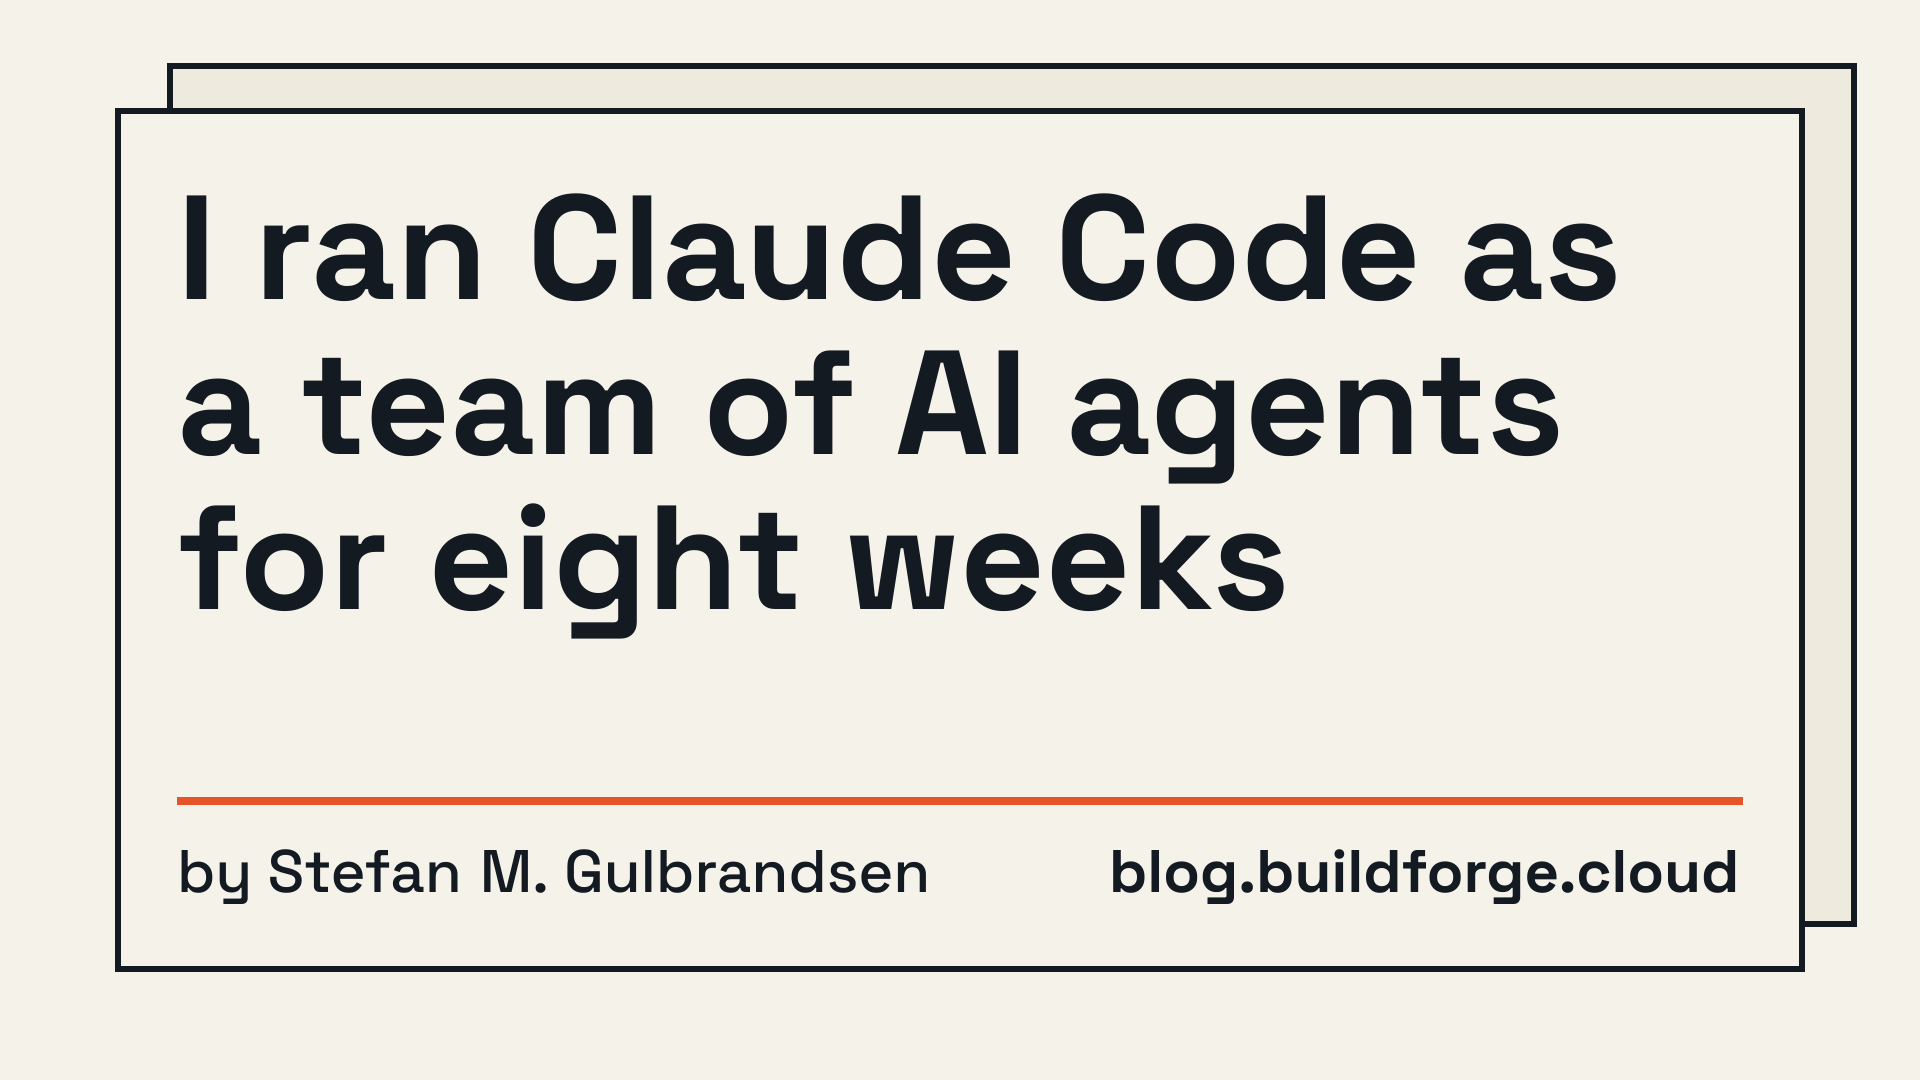
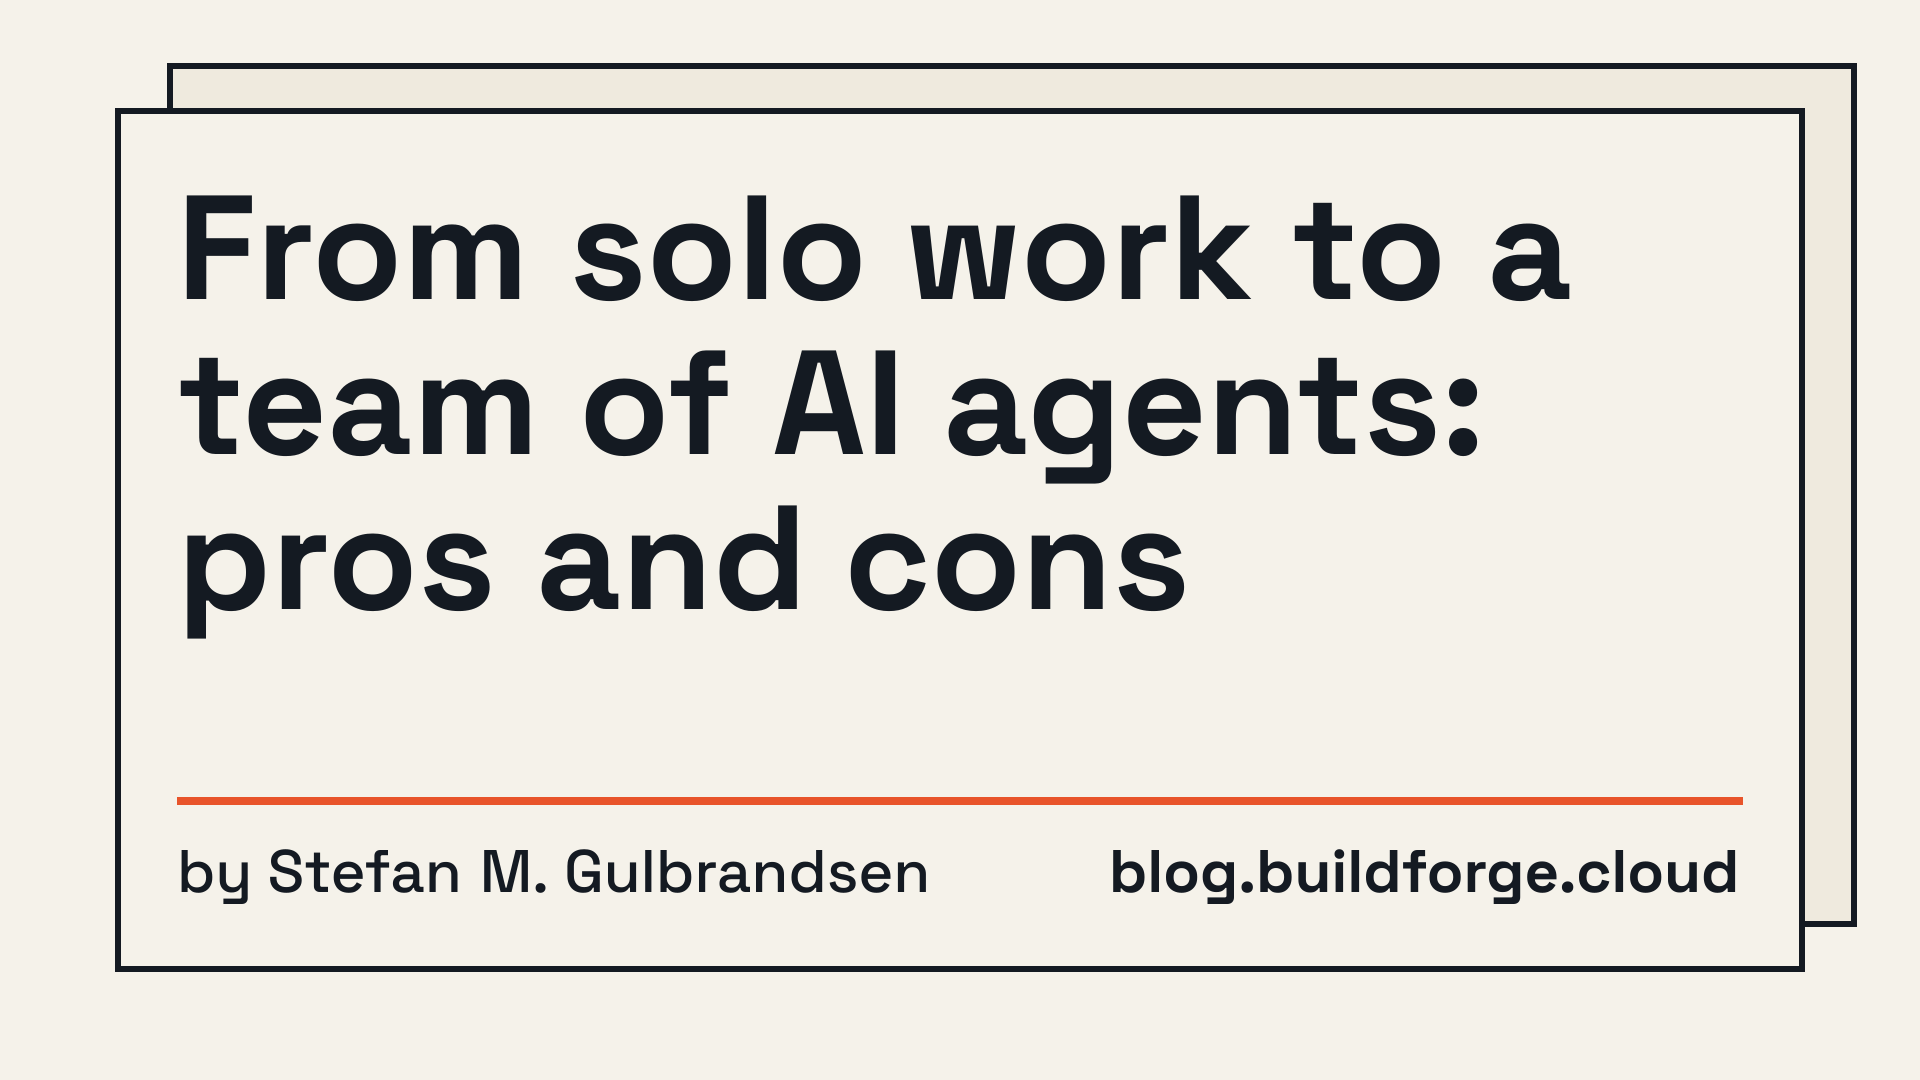
Post #109: the LinkedIn Article as a journey a cold reader can follow
The Article is new writing: four stages, then the pros and the cons,
each with what it means for someone thinking of doing the same. Plain
words for every role, no incident dates, five numbers, all in the post.
New headline, so a new share text and a redrawn cover.

New rules in tests/linkedin.mjs (red first on the old Article: 31
numbers, 11 dates, 5 in-house words): no in-house word in an Article or
share text, no day-and-month or ISO date, 5 different numbers at most.

Test edit, declared: the e.g./i.e./vs. test's fixture said "a hook",
now an in-house word an Article may not use; it says "a block" instead.
The test is about sentence ends, and still checks them.

changes.d/107.md is folded into AGENTS.md and removed.

Changed region(s): [[0.0938, 0.3056, 0.8125, 0.6111], [0.0938, 0.1833, 0.8438, 0.275]]

diff --git a/docs/linkedin/building-an-ai-agent-team-article.md b/docs/linkedin/building-an-ai-agent-team-article.md
@@ -1,103 +1,113 @@
-# I ran Claude Code as a team of AI agents for eight weeks
+# From solo work to a team of AI agents: pros and cons
 
-On day two, my AI reviewer asked a worker agent for proof. The worker got it by loading my production server.
+For eight weeks, a team of AI agents has written and checked my code. I don't review it. I answer their questions on my phone.
 
-Written by AI, edited by me.
+AI wrote this article. I edited it.
 
-The request was fair. A test was supposed to survive a busy machine, so the worker made the machine busy: CPU burners for about ten minutes, until the load reached 12.
+This is how I got there, in four stages, and what I make of it now. I build a few small apps on my own, and AI writes all of their code. Each app, with its code, is what I call a project.
 
-The box has 2 CPUs and serves my websites too. Nobody broke a rule that day. I had built the reviewer to never take a worker's word, and it didn't.
+If you are thinking of letting AI agents take on more of your work, the pros and cons at the end are for you.
 
-What it lacked was any rule about what a proof may cost, or where it may run. That pattern held for eight weeks: the agents wrote code fast, and the trouble lived in the rules and checks I put around them.
+An AI agent, in this article, is an AI that works on a task by itself. It reads the code, changes it, runs the tests (small programs that check the code still works) and reports back. Mine run on Claude Code, an AI coding tool made by Anthropic, on the same small server that runs my apps.
 
-## How the team is wired
+## Stage one: me in the middle of every task
 
-Since late September, every project I run has Claude Code sessions in two roles.
+Before the team, each of my projects had one AI agent of its own, and every step went through me. I gave it its next task, read what it did and decided what came next. I did most of that on my phone, in a phone app for watching agents: it shows what each one is doing and buzzes when one is done.
 
-One session reviews. I call it the executive. It watches my repositories, suggests work, and decides whether a change is good enough to merge.
+The AI wrote the code, but I was still the planner, the reviewer and the one who said when something went live. A project moved only as fast as I could read.
 
-The others are workers. A worker picks up one GitHub issue, does it in a separate copy of the code, and hands back a pull request.
+It also gave me a habit I still have. Every agent reads one shared file of instructions before it starts a task. Each time something went wrong, I added a rule to that file, and each rule was right on its day.
 
-Three decisions stay with me: what goes in the queue, what goes live, and anything that changes how an app looks.
+Together they piled up. Every agent reads the whole file before every task, so each new line was more to read on every single task, until I cut the file down and later split it.
 
-Three small tools hold it together, all started in the same week:
+One of those rules came from the day one of my live apps went down. Each app on my server runs as a few named parts, started from a setup file, and no two parts can share a name.
 
-- the executive's own code;
-- a board on my phone, where the executive asks me questions as cards I answer with a tap;
-- a memory plugin that keeps the agents' notes as plain files, with no server and no embeddings.
+A test the AI ran used the live app's setup file. So the server swapped the live app's parts for the test's copies, and the app went down.
 
-## The pace was never the problem
+I wrote a rule after that: never use a live app's setup file, not even for a test. Remember that rule. It comes back in the cons.
 
-By 18 November, the executive's code alone had 623 merged pull requests. Its full weeks ranged from 43 merges to 114.
+## Stage two: an agent to lead the others
 
-The median review took 11 minutes. Over the last 10 merges, a worker's start to its merge took 43 minutes at the median for work on the team's own tools, and 51 for work on my products.
+In late September I built one AI agent to lead the others. It looks at all my projects, suggests what to work on next, and starts a new agent for each task I say yes to. Then it reviews what comes back.
 
-The other two tools grew alongside it: about 1,300 commits on the board, 95 on the memory plugin. Speed was the easy part. Every failure in this article sat in what I built around the code.
+Each new agent gets one task and its own copy of the code, so two agents don't trip over each other. When it is done, it hands back the finished change with a short report of what it did and which tests it ran.
 
-## Turn rules into hard checks
+The lead agent is more than Claude Code. It is also a set of small programs built for it, which start the other agents, check the server and keep its records. Those programs are a project of their own too, though not an app.
 
-The CPU burners were not my first production scare. On 7 July, before any of this, a test started one project's real Docker Compose file.
+On the lead agent's first day, the code that hands out and checks work came together in an afternoon. The bugs that could have hurt something were in the safety checks built into it: the code meant to stop it from starting real work by mistake, or from publishing something private.
 
-Its container names are fixed, so the test could not run beside the live app. It took the live app's place, and my sites went down.
+So I started small. Accepting a change makes it part of a project's real code, and at first the lead agent could accept changes only into its own project, which puts nothing live. Everything else waited for me.
 
-My first fix was a sentence in the instructions every session reads: never run a project's real compose file, not even to test.
+## Stage three: one reviewer for the whole team
 
-That sentence was not enough. Since 25 September, a hook blocks the command in every repository before it can run, and no agent has to remember anything.
+Then I let the lead agent review and accept the work on every project. It never takes an agent's report at its word. It runs the tests again itself and reads every changed line against the task.
 
-The CPU burners got their own rule: prove timing with a fake clock or by design, never by loading production.
+When something is off, the work goes back to the agent that did it. A script lets at most 2 agents work at the same time, and only when the server has enough free memory and disk for them.
 
-## Give your instructions a budget
+The pace surprised me. I counted one project, the lead agent's own: by the middle of November it had taken in 623 finished changes, 114 of them in its busiest week. Half of the reviews took 11 minutes or less.
 
-Every incident adds a line to the agents' instructions. Each line makes sense on the day it is written. Together, they pile up.
+Some decisions stayed with me. I choose which tasks get done at all. Anything that goes live, or changes how an app looks, waits for my yes.
 
-My global instructions file loads into every Claude Code session on every project. I cut it down on 1 August. By 24 September it had swollen to 108 KB again.
+## Stage four: what my days look like now
 
-So I split it. Rules that always apply stayed. Details moved into documents an agent opens only when it works in that area.
+My part happens on my phone, on a simple web page my agents built for me, separate from the phone app in stage one. The lead agent posts a short question there with a few answers to pick from, and I tap one. The same page shows which agents are running.
 
-The executive's own file now has a hard cap of 200 lines and 12 KB. On 19 November it held 133 lines and 11,999 bytes: one byte to spare.
+I don't review any code. Over the eight weeks, the questions added up to thousands of small decisions. Together they decide what gets built and what goes live.
 
-## Doubt your own dashboard
+This article was made the same way. An agent wrote it from a longer post on my blog, linked at the end, and it waited for my yes before I posted it.
 
-I built the executive to be suspicious. Each pull request ends with the worker's own report of what it did and which tests it ran.
+## The pros
 
-The executive treats that report as a claim. It reruns the tests and reads every changed line against the issue.
+The code is the fast part. It came quickly from the first day. If you try this, expect it to arrive fast, and save your own time for the checks and the decisions around it.
 
-When something is off, the work goes back to the worker. In the last 10 merges of each kind of work, that happened 2 times in each kind.
+A reviewer that doubts the agent that did the work catches real mistakes. Work goes back for another round when the tests or the task say it is not done. The lead agent even caught a wrong claim in the first draft of that blog post.
 
-Then my own board broke a rule. On 18 November it showed 3 workers running, with a cap of 2.
+What that means for you: never let the agent that did the work be the one that says it is done. A separate check, by a separate agent, is worth the extra minutes.
 
-Either a worker slipped past the limit, or the board miscounted. When I wrote this up, nobody knew which.
+My time goes to decisions, not to code. I went from reading every change to answering questions. What that means for you: your job moves from doing to deciding, so write down which decisions stay with you before you start.
 
-The suspicion I built into the reviewer has to cover my own tools as well.
+Agents can work side by side. Each one has its own copy of the code and one task, so they don't get in each other's way. What that means for you: keep each task small and separate, and more than one can run at a time.
 
-## Measure the feature before you trust it
+## The cons: agents and rules
 
-The memory plugin can point an agent to related notes. When the agent opens one memory, the plugin adds a line that names its neighbours.
+Agents take you literally. On its second day, the lead agent asked one of the other agents to prove that the code that agent had just written still worked while the server was busy.
 
-I measured it on 24 September. The plugin's own links gave 7.2 useful suggestions per 100 reads, and plain links written into the memories gave 3.6.
+So that agent made the server busy on purpose. For about ten minutes the server was overloaded, with my live apps running on it.
 
-That gap was too uncertain to rule out zero. Meanwhile the extra line showed up on 94% of reads, so I switched it off.
+Nobody broke a rule that day, because no rule said what a proof may cost or where it may run. What that means for you: write down what is off limits, not only what you want.
 
-A second run on 8 October looked much better: 20.7 against 3.4, clearly above zero.
+A written rule only works if every agent remembers it, every time. So the rule from stage one is now also a check: starting anything from a live app's setup file is blocked before it runs, in every project.
 
-The line is still off by default. Switching it back on is my call, and I haven't made it yet.
+What that means for you: turn the rules that matter most into checks a machine enforces. Keep the written ones for everything else.
 
-## Alarms need design too
+Instructions grow back. Every problem adds a line, and each line makes sense on the day you write it.
 
-A script looks at each worker every 5 minutes. If a worker has stopped, or a prompt has sat waiting, for 10 minutes, it tells the executive.
+The shared file from stage one is split now. The lead agent also has its own, separate instructions file, and it has a fixed size limit of 12 KB, a few pages of text. When I wrote this, it was one byte under.
 
-On 29 September that alarm fired 31 times. Until 3 October it also fired when a worker was only waiting for my yes on a visual change, so some of those 31 may have been waiting on me.
+What that means for you: give your instructions a budget. Move the details into separate documents that an agent opens only when its task needs them.
 
-The first draft of my blog post said all 31 were questions only I could answer. The executive's review of that draft caught the mistake.
+## The cons: your own tools
 
-## What is left for me
+Your own tools can be wrong too. One day the page on my phone showed three agents running, when the limit was two. Either one got past the limit or the page counted wrong, and when I wrote this, nobody knew which.
 
-My part happens on my phone. I read short cards, one per decision, and tap an answer.
+What that means for you: doubt your dashboard as much as your agents. The suspicion you build into the review should cover your own tools.
 
-I don't review code at all: the executive does. I approve what goes live and what changes how an app looks.
+Some clever ideas turn out to be noise. My agents keep a memory, short notes they write for themselves and read on later tasks. I added a feature that pointed an agent from one note to related ones.
 
-Over eight weeks, that added up to thousands of small decisions. The blog post behind this article went the same way: a card I answered became an issue, a worker wrote it, and it waited for my yes.
+Some notes already linked to others, like links on a web page. In its first test, the new pointers did better than those links, but not by enough to rule out chance. They also added a line to almost every read, which is clutter when it rarely helps, so I turned the feature off.
+
+A later test looked better, but the feature is still off until I decide. What that means for you: measure a feature before you trust it, and measure it again before you drop it for good.
+
+Alarms need care too. A script tells the lead agent when another agent has sat idle for a while, for example stuck on a question nobody answered. At first it also went off for agents that were waiting, as planned, for my yes.
+
+On one day it went off more than thirty times, and some of those may have been the planned kind. What that means for you: check what your alarms actually count. An alarm that can't tell "stuck" from "waiting as planned" sends you to the wrong place.
+
+## Where that leaves me
+
+Eight weeks in, the team is still how I work. The code comes faster than I could read it. Every problem in this article sat in the rules, checks and tools around the agents, not in the code they wrote.
+
+If you are about to try this, start with the limits. Decide what the agents may never do, what they must prove, and which decisions stay with you.
 
 Every number here, with its date, is in [the full post on my blog](https://blog.buildforge.cloud/posts/building-an-ai-agent-team/).
 
-If you run AI agents on real work, what was the first rule you had to turn into a hard check?
+If you work with AI agents, which decision would you never hand over to them?

diff --git a/docs/log.d/109.md b/docs/log.d/109.md
@@ -1,0 +1,25 @@
+## 2026-11-19: the LinkedIn Article, rewritten as a journey for cold readers (#109)
+
+**What.** `docs/linkedin/building-an-ai-agent-team-article.md` is new
+writing, not an edit of blog#107's: four stages (one agent per project with
+Stefan in the middle; a lead agent; one reviewer for the team; his part now),
+then the pros and the cons, each with what it means for a reader who wants to
+try it. Its headline changed, so the share text and the cover changed with it.
+`changes.d/107.md` is folded into `AGENTS.md` and removed.
+
+**Why.** Stefan, card 4421 (decision 4424): the Article must read "with no
+prior knowledge or context information about the setup". Board chat
+(decision 4425): it should describe a journey and the pros and cons overall,
+not single deliveries.
+
+**New rules.** `articleProblems` fails on an in-house word (the issue's list,
+plus worktree and the three tool repos' names), a day with its month or an
+ISO date, and more than 5 different numbers; `shareProblems` on an in-house
+word. RED first: the old Article failed with `31 numbers, not 5 or fewer`, 11
+dates and 5 in-house words; the old share text with `an in-house word:
+"worker"`. 18 mutations of the new clauses, each killed by its own test, read
+from the TAP output.
+
+**Measured, not tested.** The rules cannot see what a stranger cannot follow,
+so each round went to a fresh subagent given only the two texts. The rounds
+and their lists are in the PR body.

diff --git a/changes.d/109.md b/changes.d/109.md
@@ -1,0 +1,18 @@
+For `CLAUDE.md`, "Writing a post", in the "A LinkedIn Article" paragraph
+(blog#109):
+
+- An Article is read by people who know nothing of the setup (Stefan,
+  decision 4424), and tells a journey with its pros and cons, not single
+  deliveries (decision 4425). `articleProblems` now also fails on an in-house
+  word (executive, worker, board, card, slot, hook, worktree, `Touches`,
+  agent-orchestrator, agent-os, agent-memory; whole word, plural too, any
+  case but `Touches`), on a day with its month ("7 July", "November 18") or
+  an ISO date, and on more than 5 different numbers. `shareProblems` fails on
+  an in-house word too. A month alone ("in late September") passes. Say the
+  role in plain words instead ("the lead agent", "a status page on my
+  phone").
+- The rules cannot see what a reader cannot follow, so an Article also gets
+  a cold read before merge: a fresh subagent gets only the Article and the
+  share text, and lists every word, name or reference it cannot follow. Fix
+  each and ask a new reader, until one lists none (blog#109's PR has the
+  rounds).

diff --git a/docs/linkedin/building-an-ai-agent-team.md b/docs/linkedin/building-an-ai-agent-team.md
@@ -1,9 +1,9 @@
-On day two, my AI reviewer asked a worker agent for proof. The worker got it by loading my production server.
+For eight weeks, a team of AI agents has written and checked my code. I don't review it. I answer their questions on my phone.
 
-Written by AI, edited by me.
+AI wrote this and the article. I edited.
 
-For eight weeks I have run my projects with a team of Claude Code agents. The code came fast. The failures sat in the rules and checks around it.
+I build small apps alone. This is how I went from guiding one AI agent per app to a team, on Claude Code, an AI coding tool, with the pros and cons.
 
-If you run AI agents on real work, what was the first rule you had to turn into a hard check?
+Which decision would you never hand over to an AI agent?
 
 #ClaudeCode #AIAgents #SoftwareEngineering
